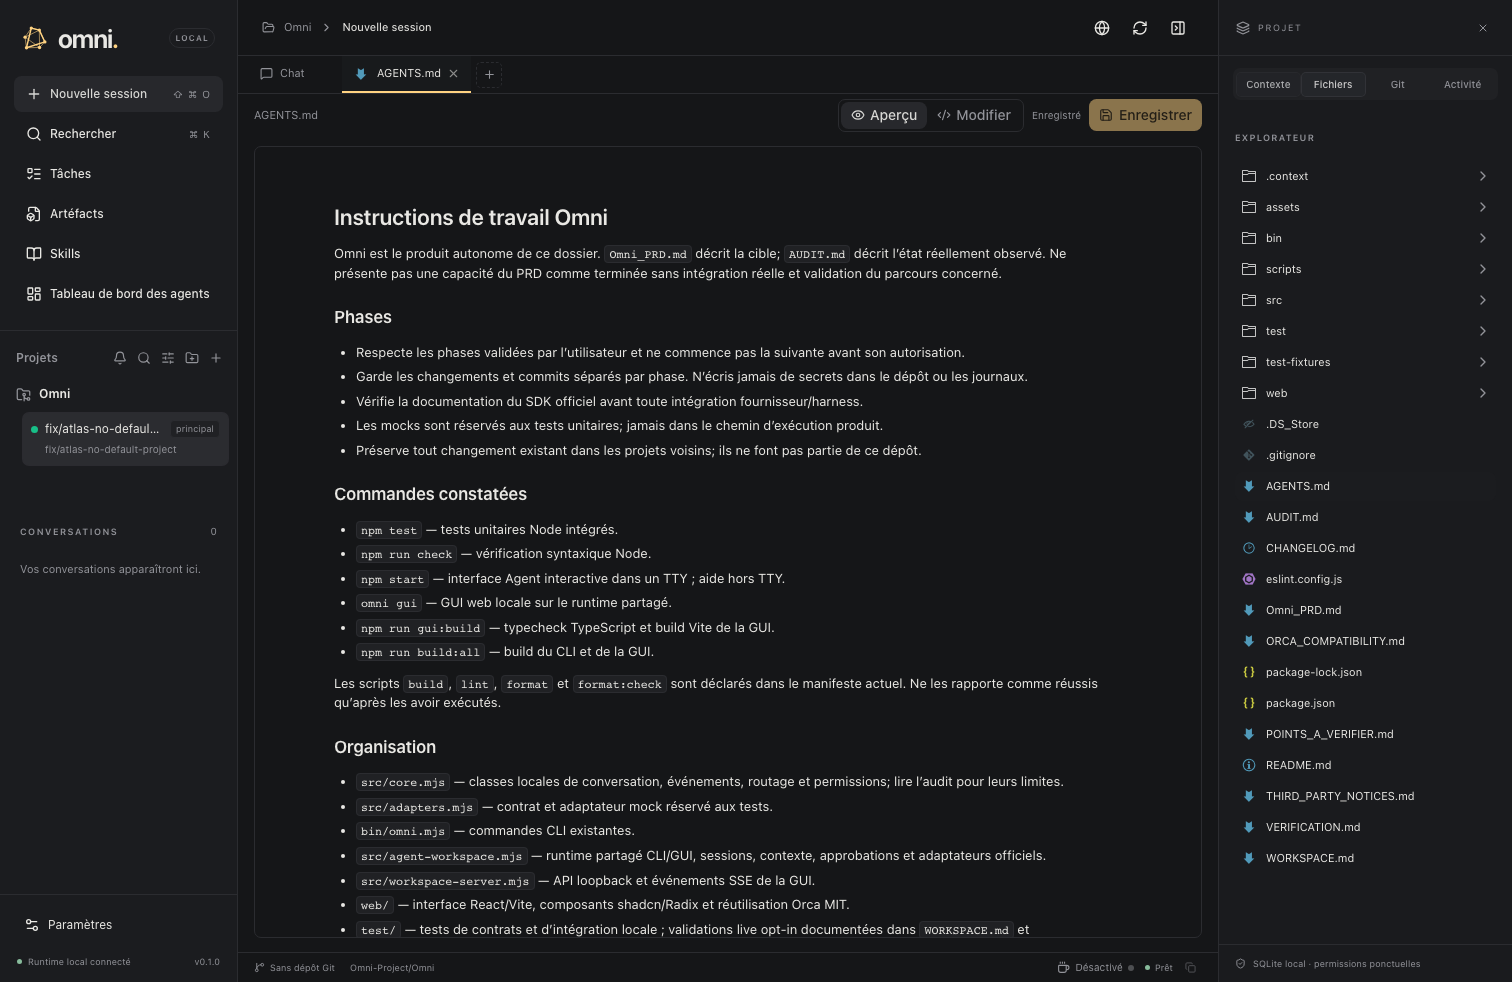
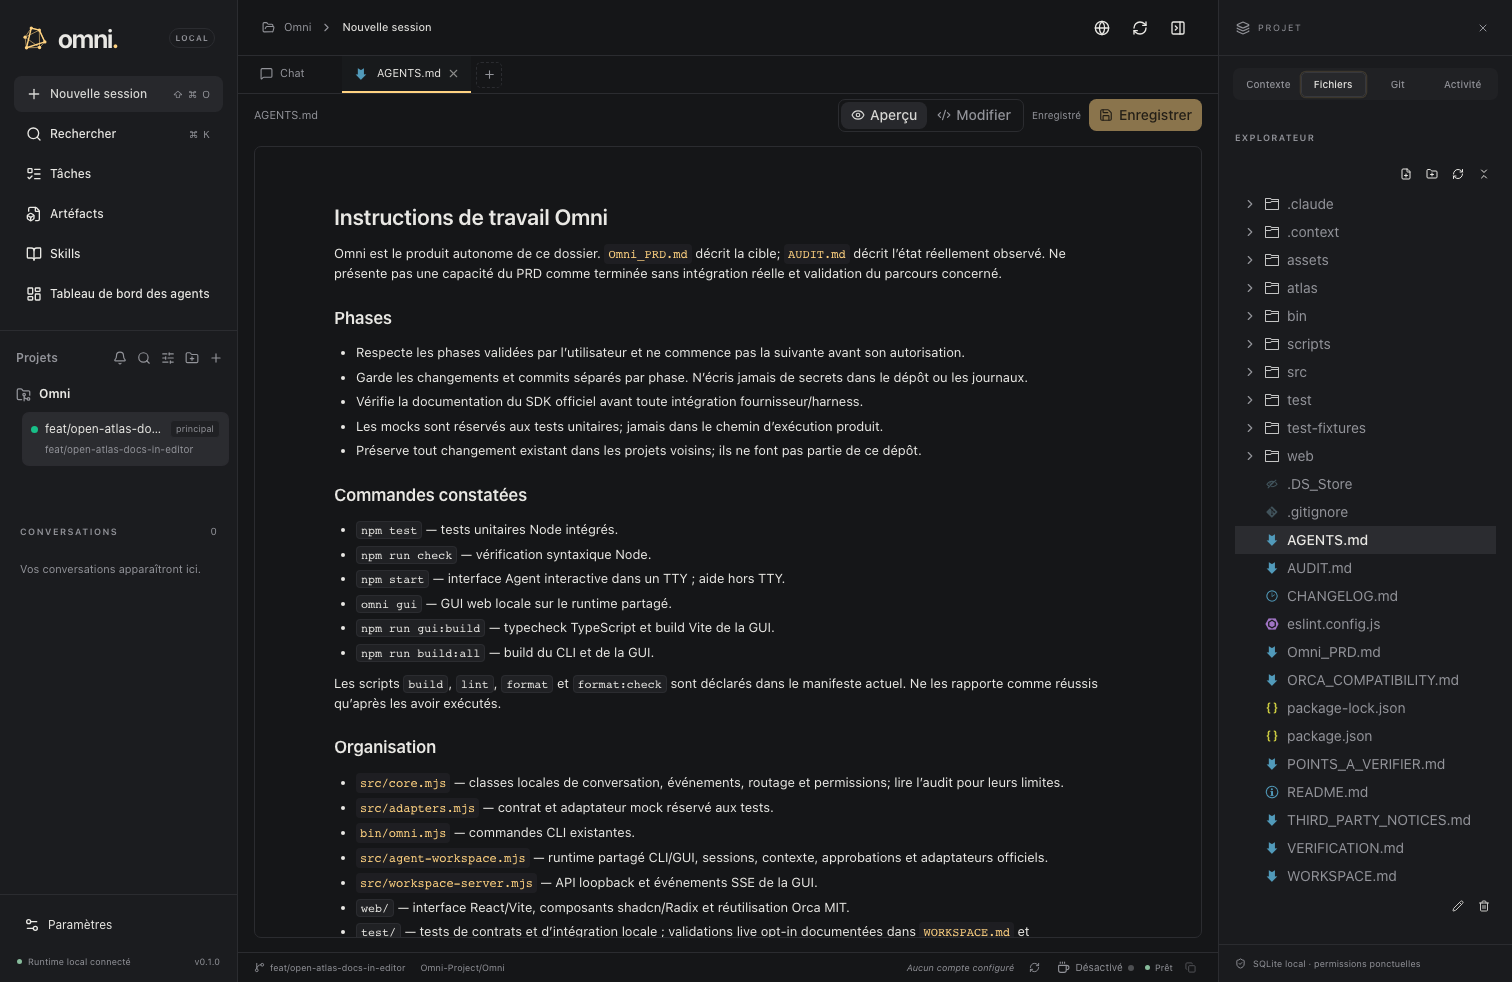
feat(atlas): open atlas documents in editor tab and support interactive citations
- Display atlas documents as direct links in the right panel without rendering markdown inside the panel
- Open atlas .md files in Omni's main editor/viewer tab with full width, preview mode and line tracking
- Enhance MarkdownContent with interactive citation buttons for file paths and line numbers
- Add Playwright E2E verification for opening atlas documents and following in-document citations
- Regenerate project atlas and refresh preview screenshots

diff --git a/web/src/components/atlas-viewer.tsx b/web/src/components/atlas-viewer.tsx
@@ -1,119 +1,64 @@
-// Atlas pages for the project panel: a summary of the generated pages, and
-// each page rendered as Markdown. A citation such as `src/main.ts:42` becomes a
-// button that opens the file at that line, so a claim can be checked in one click.
+// Atlas pages for the project panel: lists the generated Atlas markdown documents.
+// Clicking an atlas document opens it directly in Omni's editor / viewer tab.
 
-import { useEffect, useState } from "react";
-import Markdown from "react-markdown";
-import remarkGfm from "remark-gfm";
-import { ArrowLeft, FileText } from "lucide-react";
-
-import { Button } from "@/components/ui/button";
-import { api } from "@/lib/api";
+import { FileText } from "lucide-react";
 
 export type AtlasPage = { name: string; title: string };
 
-const CITATION = /^((?:[\w.-]+\/)*[\w.-]+\.[\w]+):(\d+)$/;
-
 export function AtlasViewer({
-  projectId,
   pages,
+  activePath,
+  onOpenFile,
   onOpenCitation,
 }: {
-  projectId: string;
+  projectId?: string;
   pages: AtlasPage[];
-  onOpenCitation: (path: string, line: number) => void;
+  activePath?: string | null;
+  onOpenFile?: (entry: { name: string; path: string; directory: boolean }) => void;
+  onOpenCitation?: (path: string, line: number) => void;
 }) {
-  const [current, setCurrent] = useState<string | null>(null);
-  const [text, setText] = useState("");
-  const [error, setError] = useState("");
-  const [loading, setLoading] = useState(false);
-
-  // Another project has its own atlas: start from its summary.
-  useEffect(() => {
-    setCurrent(null);
-    setText("");
-    setError("");
-  }, [projectId]);
-
-  useEffect(() => {
-    if (!current) return;
-    const controller = new AbortController();
-    setLoading(true);
-    setError("");
-    api<{ name: string; text: string }>(
-      `/projects/${projectId}/atlas-page?name=${encodeURIComponent(current)}`,
-      undefined,
-      controller.signal,
-    )
-      .then((page) => {
-        if (!controller.signal.aborted) setText(page.text);
-      })
-      .catch((e) => {
-        if (!controller.signal.aborted) setError(e instanceof Error ? e.message : String(e));
-      })
-      .finally(() => {
-        if (!controller.signal.aborted) setLoading(false);
-      });
-    return () => controller.abort();
-  }, [projectId, current]);
-
-  if (!current) {
+  if (!pages || pages.length === 0) {
     return (
-      <div className="flex flex-col gap-1">
-        {pages.map((page) => (
+      <p className="text-xs text-muted-foreground py-1">
+        Aucune page d'atlas générée.
+      </p>
+    );
+  }
+
+  function handleOpen(page: AtlasPage) {
+    const filePath = `atlas/${page.name}`;
+    if (onOpenFile) {
+      onOpenFile({ name: page.name, path: filePath, directory: false });
+    } else if (onOpenCitation) {
+      onOpenCitation(filePath, 1);
+    }
+  }
+
+  return (
+    <div className="flex flex-col gap-1">
+      {pages.map((page) => {
+        const filePath = `atlas/${page.name}`;
+        const isActive = activePath === filePath;
+        return (
           <button
             key={page.name}
             type="button"
-            onClick={() => setCurrent(page.name)}
-            className="flex items-center gap-2 rounded-md px-2 py-1.5 text-left text-sm hover:bg-accent/50"
+            title={`Ouvrir ${filePath} dans l'éditeur`}
+            onClick={() => handleOpen(page)}
+            className={`flex items-center gap-2 rounded-md px-2 py-1.5 text-left text-sm transition-colors ${
+              isActive
+                ? "bg-accent text-accent-foreground font-medium"
+                : "hover:bg-accent/50 text-foreground"
+            }`}
           >
             <FileText className="size-3.5 shrink-0 text-muted-foreground" />
             <span className="min-w-0 flex-1">
               <span className="block truncate">{page.title}</span>
-              <span className="block truncate text-xs text-muted-foreground">atlas/{page.name}</span>
+              <span className="block truncate text-xs text-muted-foreground">{filePath}</span>
             </span>
           </button>
-        ))}
-      </div>
-    );
-  }
-
-  return (
-    <div className="flex flex-col gap-2">
-      <Button variant="ghost" size="sm" className="self-start" onClick={() => setCurrent(null)}>
-        <ArrowLeft />
-        Sommaire
-      </Button>
-      {loading && <p className="text-xs text-muted-foreground">Chargement…</p>}
-      {error && <p className="text-xs text-destructive">{error}</p>}
-      {!loading && !error && (
-        <div className="markdown text-sm">
-          <Markdown
-            remarkPlugins={[remarkGfm]}
-            components={{
-              code: ({ className, children }) => {
-                const value = String(children).replace(/\n$/, "");
-                const citation = !className && !value.includes("\n") ? CITATION.exec(value) : null;
-                if (citation) {
-                  return (
-                    <button
-                      type="button"
-                      title={`Ouvrir ${citation[1]} à la ligne ${citation[2]}`}
-                      onClick={() => onOpenCitation(citation[1], Number(citation[2]))}
-                      className="rounded bg-muted px-1 font-mono text-xs text-primary underline-offset-2 hover:underline"
-                    >
-                      {value}
-                    </button>
-                  );
-                }
-                return <code className={className}>{children}</code>;
-              },
-            }}
-          >
-            {text}
-          </Markdown>
-        </div>
-      )}
+        );
+      })}
     </div>
   );
 }

diff --git a/web/src/components/markdown.tsx b/web/src/components/markdown.tsx
@@ -8,7 +8,18 @@ import {
   CodeBlockActions,
   CodeBlockCopyButton,
 } from "@/components/ui/code-block";
-export function MarkdownContent({ text }: { text: string }) {
+
+const CITATION_REGEX = /^((?:[\w.-]+\/)*[\w.-]+\.[a-zA-Z0-9]+):(\d+)$/;
+const FILE_PATH_REGEX =
+  /^((?:[\w.-]+\/)*[\w.-]+\.(?:mdx?|ts|tsx|js|mjs|cjs|jsx|json|ya?ml|toml|css|scss|html|sh|py|rs|go|sql|env(?:[\w.-]+)?))$/i;
+
+export function MarkdownContent({
+  text,
+  onOpenCitation,
+}: {
+  text: string;
+  onOpenCitation?: (path: string, line?: number) => void;
+}) {
   return (
     <div className="markdown">
       <Markdown
@@ -16,28 +27,89 @@ export function MarkdownContent({ text }: { text: string }) {
         components={{
           pre: ({ children }) => <>{children}</>,
           code: ({ className, children }) => {
-            const text = String(children).replace(/\n$/, "");
-            return className || text.includes("\n") ? (
-              <CodeBlock>
-                <CodeBlockHeader>
-                  <CodeBlockTitle>
-                    {className?.replace("language-", "") || "Code"}
-                  </CodeBlockTitle>
-                  <CodeBlockActions>
-                    <CodeBlockCopyButton value={text} />
-                  </CodeBlockActions>
-                </CodeBlockHeader>
-                <CodeBlockContent wrap>{text}</CodeBlockContent>
-              </CodeBlock>
-            ) : (
-              <code className="inline-code">{children}</code>
+            const rawText = String(children).replace(/\n$/, "");
+            if (className || rawText.includes("\n")) {
+              return (
+                <CodeBlock>
+                  <CodeBlockHeader>
+                    <CodeBlockTitle>
+                      {className?.replace("language-", "") || "Code"}
+                    </CodeBlockTitle>
+                    <CodeBlockActions>
+                      <CodeBlockCopyButton value={rawText} />
+                    </CodeBlockActions>
+                  </CodeBlockHeader>
+                  <CodeBlockContent wrap>{rawText}</CodeBlockContent>
+                </CodeBlock>
+              );
+            }
+
+            if (onOpenCitation) {
+              const citationMatch = CITATION_REGEX.exec(rawText);
+              if (citationMatch) {
+                const filePath = citationMatch[1];
+                const line = Number(citationMatch[2]);
+                return (
+                  <button
+                    type="button"
+                    title={`Ouvrir ${filePath} à la ligne ${line}`}
+                    onClick={(e) => {
+                      e.stopPropagation();
+                      onOpenCitation(filePath, line);
+                    }}
+                    className="inline-flex items-center rounded bg-muted/80 px-1 py-0.5 font-mono text-xs text-primary underline-offset-2 hover:underline hover:bg-muted cursor-pointer"
+                  >
+                    {rawText}
+                  </button>
+                );
+              }
+
+              const fileMatch = FILE_PATH_REGEX.exec(rawText);
+              if (fileMatch) {
+                const filePath = fileMatch[1];
+                return (
+                  <button
+                    type="button"
+                    title={`Ouvrir ${filePath}`}
+                    onClick={(e) => {
+                      e.stopPropagation();
+                      onOpenCitation(filePath);
+                    }}
+                    className="inline-flex items-center rounded bg-muted/80 px-1 py-0.5 font-mono text-xs text-primary underline-offset-2 hover:underline hover:bg-muted cursor-pointer"
+                  >
+                    {rawText}
+                  </button>
+                );
+              }
+            }
+
+            return <code className="inline-code">{children}</code>;
+          },
+          a: ({ href, children }) => {
+            if (onOpenCitation && href && !/^(?:https?:|mailto:|#)/i.test(href)) {
+              const [targetPath, hash] = href.split("#");
+              const lineMatch = hash ? /^L?(\d+)$/i.exec(hash) : null;
+              const line = lineMatch ? Number(lineMatch[1]) : undefined;
+              return (
+                <button
+                  type="button"
+                  onClick={(e) => {
+                    e.preventDefault();
+                    e.stopPropagation();
+                    onOpenCitation(targetPath.replace(/^\.\//, ""), line);
+                  }}
+                  className="text-primary underline underline-offset-2 hover:text-primary/80 inline cursor-pointer text-left font-inherit p-0 bg-transparent border-none"
+                >
+                  {children}
+                </button>
+              );
+            }
+            return (
+              <a href={href} target="_blank" rel="noreferrer">
+                {children}
+              </a>
             );
           },
-          a: ({ href, children }) => (
-            <a href={href} target="_blank" rel="noreferrer">
-              {children}
-            </a>
-          ),
           img: ({ alt }) => (
             <span className="text-muted-foreground">
               [Image : {alt || "contenu distant"}]

diff --git a/web/src/workspace.tsx b/web/src/workspace.tsx
@@ -2071,7 +2071,21 @@ export function App() {
                     viewFile.mode === "preview" &&
                     /\.mdx?$/i.test(viewFile.path) ? (
                       <article className="markdown-file-preview">
-                        <MarkdownContent text={viewFile.content} />
+                        <MarkdownContent
+                          text={viewFile.content}
+                          onOpenCitation={(citationPath, line) => {
+                            void openFile(
+                              {
+                                name:
+                                  citationPath.split("/").at(-1) ??
+                                  citationPath,
+                                path: citationPath,
+                                directory: false,
+                              },
+                              line,
+                            );
+                          }}
+                        />
                       </article>
                     ) : (
                       <Suspense
@@ -2237,6 +2251,18 @@ export function App() {
                                       {message.content ? (
                                         <MarkdownContent
                                           text={message.content}
+                                          onOpenCitation={(path, line) =>
+                                            void openFile(
+                                              {
+                                                name:
+                                                  path.split("/").at(-1) ??
+                                                  path,
+                                                path,
+                                                directory: false,
+                                              },
+                                              line,
+                                            )
+                                          }
                                         />
                                       ) : busy ? (
                                         <span className="shimmer">
@@ -2731,8 +2757,15 @@ export function App() {
                   <AtlasViewer
                     projectId={projectId}
                     pages={atlas.pages ?? []}
+                    activePath={
+                      openFileTabs.find((tab) => tab.id === activeTabId)?.path ?? null
+                    }
+                    onOpenFile={(entry) => void openFile(entry)}
                     onOpenCitation={(path, line) =>
-                      void openFile({ name: path.split("/").at(-1) ?? path, path, directory: false }, line)
+                      void openFile(
+                        { name: path.split("/").at(-1) ?? path, path, directory: false },
+                        line,
+                      )
                     }
                   />
                 )}

diff --git a/atlas/external-dependencies.md b/atlas/external-dependencies.md
@@ -1,4 +1,4 @@
-<!-- generated by tools/atlas/generate.mjs. Do not edit by hand. Source digest: e7636876c10426ce -->
+<!-- generated by tools/atlas/generate.mjs. Do not edit by hand. Source digest: 16d22539ff326bbc -->
 
 # External dependencies
 

diff --git a/atlas/README.md b/atlas/README.md
@@ -1,4 +1,4 @@
-<!-- generated by tools/atlas/generate.mjs. Do not edit by hand. Source digest: e7636876c10426ce -->
+<!-- generated by tools/atlas/generate.mjs. Do not edit by hand. Source digest: 16d22539ff326bbc -->
 
 # Project atlas
 

diff --git a/atlas/config.md b/atlas/config.md
@@ -1,4 +1,4 @@
-<!-- generated by tools/atlas/generate.mjs. Do not edit by hand. Source digest: e7636876c10426ce -->
+<!-- generated by tools/atlas/generate.mjs. Do not edit by hand. Source digest: 16d22539ff326bbc -->
 
 # Configuration
 

diff --git a/atlas/documents.md b/atlas/documents.md
@@ -1,4 +1,4 @@
-<!-- generated by tools/atlas/generate.mjs. Do not edit by hand. Source digest: e7636876c10426ce -->
+<!-- generated by tools/atlas/generate.mjs. Do not edit by hand. Source digest: 16d22539ff326bbc -->
 
 # Documents
 

diff --git a/atlas/map.md b/atlas/map.md
@@ -1,4 +1,4 @@
-<!-- generated by tools/atlas/generate.mjs. Do not edit by hand. Source digest: e7636876c10426ce -->
+<!-- generated by tools/atlas/generate.mjs. Do not edit by hand. Source digest: 16d22539ff326bbc -->
 
 # Map
 
